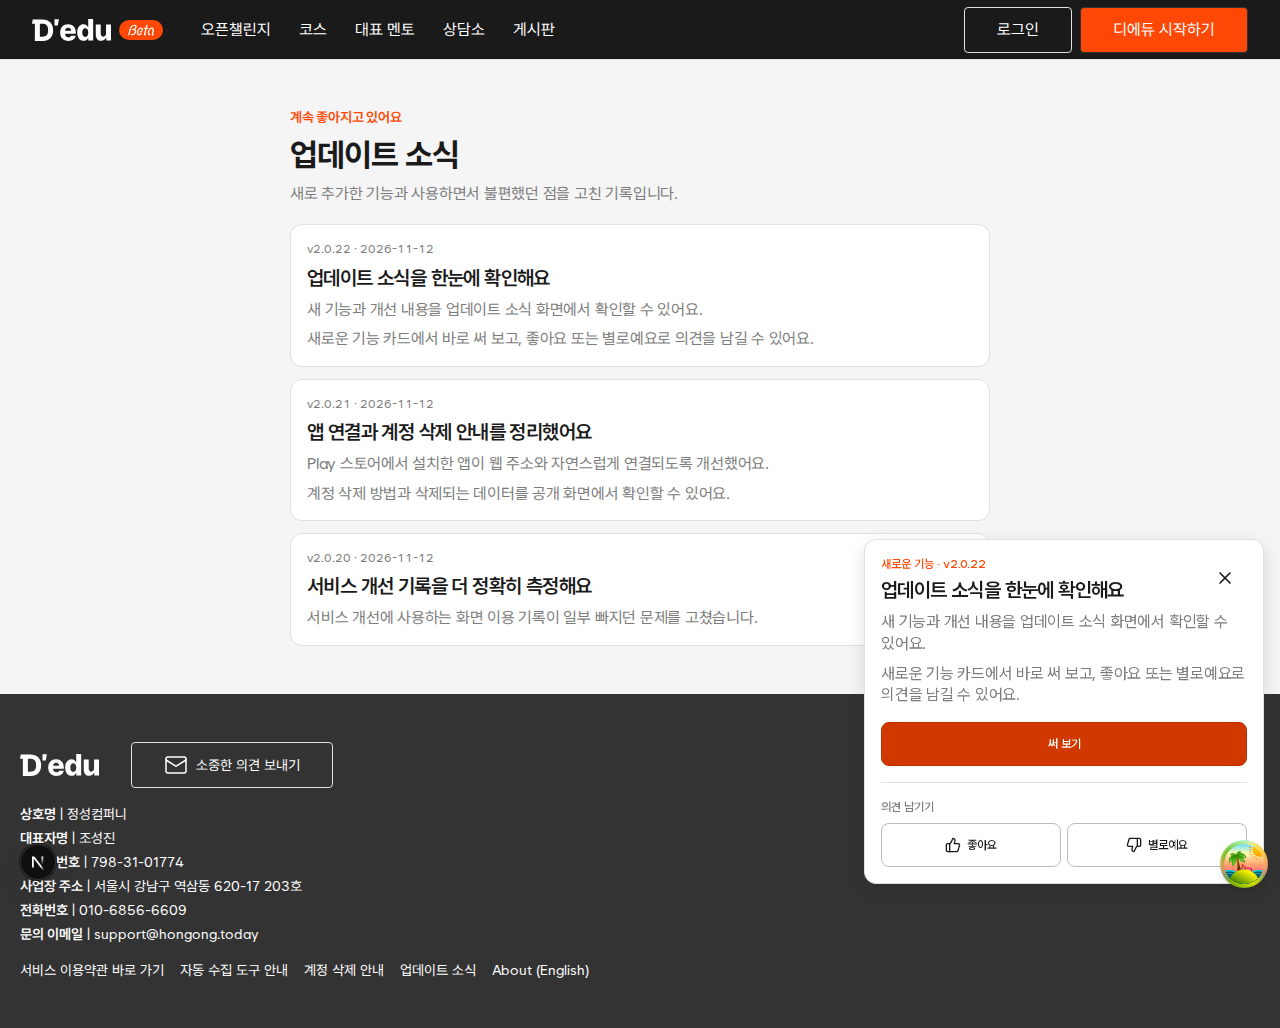
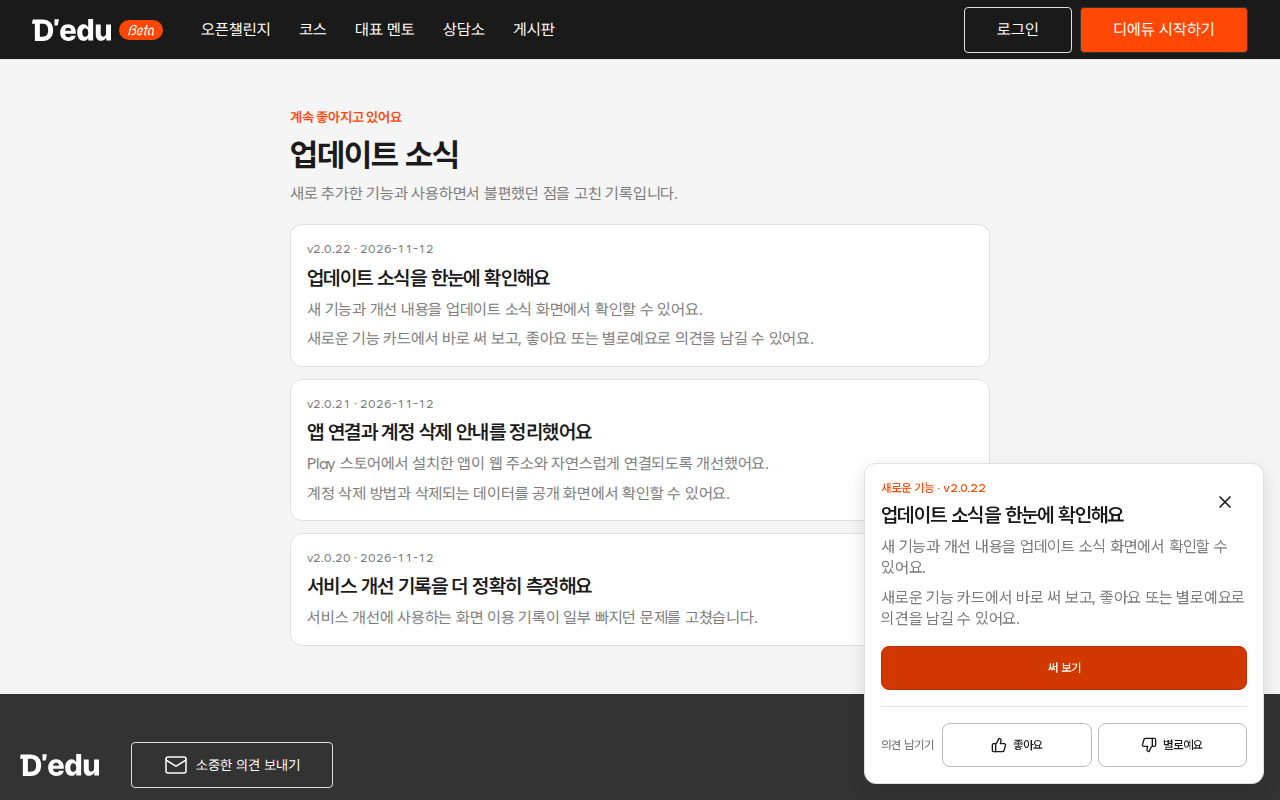
fix(front): compact whats new card on mobile

Changed region(s): [[0.0, 0.5312, 1.0, 1.0], [0.0, 0.0, 1.0, 0.625]]

diff --git a/src/app/_components/whats-new-card.tsx b/src/app/_components/whats-new-card.tsx
@@ -70,7 +70,7 @@ export function WhatsNewCardView({
   return (
     <section
       aria-label="새로운 기능"
-      className="border-line-line1 shadow-popover rounded-card p-card-pad fixed right-section-gap-mobile bottom-section-gap-mobile left-section-gap-mobile z-(--z-layer-notification) border bg-white tablet:right-section-gap tablet:bottom-section-gap tablet:left-auto tablet:w-full tablet:max-w-dialog"
+      className="border-line-line1 shadow-popover rounded-card p-card-pad-mobile tablet:p-card-pad fixed right-section-gap-mobile bottom-section-gap-mobile left-section-gap-mobile z-(--z-layer-notification) border bg-white tablet:right-section-gap tablet:bottom-section-gap tablet:left-auto tablet:w-full tablet:max-w-dialog"
       data-testid="whats-new-card"
     >
       <div className="mb-content-gap flex items-start justify-between gap-content-gap">
@@ -93,9 +93,14 @@ export function WhatsNewCardView({
         </Button>
       </div>
 
-      <div className="font-body2-normal text-text-sub2 mb-section-gap space-y-content-gap break-keep">
-        {note.body.map((paragraph) => (
-          <p key={paragraph}>{paragraph}</p>
+      <div className="font-body2-normal text-text-sub2 mb-content-gap tablet:mb-section-gap space-y-content-gap break-keep">
+        {note.body.map((paragraph, index) => (
+          <p
+            className={index > 0 ? 'tablet:block hidden' : undefined}
+            key={paragraph}
+          >
+            {paragraph}
+          </p>
         ))}
       </div>
 
@@ -105,8 +110,8 @@ export function WhatsNewCardView({
         </Link>
       </Button>
 
-      <div className="border-line-line1 mt-section-gap border-t pt-section-gap">
-        <p className="font-caption-heading text-text-sub2 mb-content-gap">
+      <div className="border-line-line1 mt-content-gap tablet:mt-section-gap gap-content-gap border-t pt-content-gap tablet:pt-section-gap flex items-center">
+        <p className="font-caption-heading text-text-sub2 shrink-0">
           의견 남기기
         </p>
         {feedback ? (
@@ -114,7 +119,7 @@ export function WhatsNewCardView({
             의견을 남겼어요. 다음 개선에 반영할게요.
           </p>
         ) : (
-          <div className="flex gap-target-gap">
+          <div className="flex min-w-0 flex-1 gap-target-gap">
             <Button
               className="min-w-0 flex-1 gap-inline-gap"
               onClick={() => onFeedback('like')}

diff --git a/docs/qa/evidence/whats-new-v2.0.22/qa-summary.md b/docs/qa/evidence/whats-new-v2.0.22/qa-summary.md
@@ -1,23 +1,32 @@
 # v2.0.22 업데이트 소식 헤드리스 QA
 
 <!-- STAMP
-created_at: 2026-11-12 17:51 KST
+created_at: 2026-11-12 19:03 KST
 model: gpt-5.6-sol
 agent: code-builder
 skills: verify, qa
 sources: release-notes-and-whats-new.md, RELEASE.md, headless-qa.json
-decision: 서로 독립된 브라우저 컨텍스트에 이전 버전을 심어 시나리오 간 localStorage 오염을 차단했다.
+decision: 운영 빌드를 next start로 검증하고, 서로 독립된 브라우저 컨텍스트에 이전 버전을 심어 시나리오 간 localStorage 오염을 차단했다.
 -->
 
-- 대상 커밋: `d54eed831`
-- 실행 경로: `http://localhost:43222/updates`
-- 서버: Next.js 개발 서버, 헤드리스 Chromium
+- 대상 기준: `ae9424e89` 이후 카드 압축 수정 작업트리
+- 실행 경로: `http://localhost:43223/updates`
+- 서버: `next build --no-lint` 뒤 `next start`, 헤드리스 Chromium
 - `/updates`: HTTP 200, 공개 노트 3개
 - 카드: `last_seen_version=v2.0.20`에서 1개 노출, 새로고침 뒤 0개
 - GA4: `whats_new_view`, `whats_new_try`, `whats_new_feedback(value=like)`, `whats_new_dismiss`의 이름과 `version=v2.0.22` 파라미터 확인
 - 가로 넘침: 390px, 834px, 1280px 모두 0
+- 카드 높이: 390×844에서 251px, 화면 높이의 29.72%로 35% 이하
+- 고정 요소 겹침: 390px, 834px, 1280px 모두 0px²
+- React Query Devtools: 운영 빌드 DOM에서 `.tsqd-parent-container` 0개
 - 콘솔 오류: 0
 - 캡처: `updates-390.png`, `updates-1280.png`
+
+## 겹침 반려 원인과 처리
+
+오른쪽 아래의 둥근 야자수 모양 버튼은 운영 기능이 아니라 `QueryProvider`가 개발 모드에서만 렌더하는 `ReactQueryDevtools` 플로팅 버튼이었다. 기존 캡처는 `next dev`에서 만들었기 때문에 카드와 같은 오른쪽 아래 자리를 사용했다. 운영 빌드에서는 이 컴포넌트가 렌더되지 않으며, 이번 `next start` QA에서 DOM 0개와 카드 겹침 면적 0px²를 확인했다. 운영 요소의 기능은 변경하지 않았다.
+
+카드는 모바일에서 두 번째 설명 문단을 숨기고, 여백과 의견 영역을 한 줄로 압축했다. 태블릿 이상에서는 두 설명 문단을 모두 유지한다.
 
 ## 첫 QA 실패 원인
 
